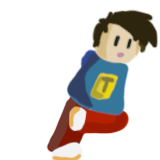
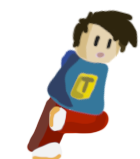
Animation joueur

Changed region(s): [[0.1714, 0.0503, 1.0, 1.0], [0.7714, 0.0503, 0.8, 0.0755]]

diff --git a/View/drawMap.py b/View/drawMap.py
@@ -7,12 +7,18 @@ AUBERGINE = pygame.image.load('View/Data/Monster/aubergine.png')
 MAISGUNNER = pygame.image.load('View/Data/Monster/Maïs.png')
 TOMATE = pygame.image.load('View/Data/Monster/Tomate.png')
 
-
 RESSORT_NORMAL = pygame.image.load('View/Data/Map/Ressort1.png')
 RESSORT_LOAD = pygame.image.load('View/Data/Map/Ressort2.png')
 RESSORT_UNLOAD = pygame.image.load('View/Data/Map/Ressort3.png')
 
 RESSORT_TRIGGER = False
+
+PLAYER_RIGHT = [pygame.transform.scale(pygame.image.load('View/Data/Player/Body/1.png'), (70, 80)),pygame.transform.scale(pygame.image.load('View/Data/Player/Body/2.png'), (70, 80)),pygame.transform.scale(pygame.image.load('View/Data/Player/Body/3.png'), (70, 80)), pygame.transform.scale(pygame.image.load('View/Data/Player/Body/4.png'), (70, 80)),pygame.transform.scale(pygame.image.load('View/Data/Player/Body/5.png'), (70, 80)),pygame.transform.scale(pygame.image.load('View/Data/Player/Body/6.png'), (70, 80)), pygame.transform.scale(pygame.image.load('View/Data/Player/Body/7.png'), (70, 80)),pygame.transform.scale(pygame.image.load('View/Data/Player/Body/8.png'), (70, 80)), pygame.transform.scale(pygame.image.load('View/Data/Player/Body/9.png'), (70, 80)),pygame.transform.scale(pygame.image.load('View/Data/Player/Body/10.png'), (70, 80))]
+PLAYER_LEFT = [pygame.transform.scale(pygame.transform.flip(pygame.image.load('View/Data/Player/Body/1.png'), True, False), (70, 80)), pygame.transform.scale(pygame.transform.flip(pygame.image.load('View/Data/Player/Body/2.png'), True, False), (70, 80)), pygame.transform.scale(pygame.transform.flip(pygame.image.load('View/Data/Player/Body/3.png'), True, False), (70, 80)), pygame.transform.scale(pygame.transform.flip(pygame.image.load('View/Data/Player/Body/4.png'), True, False), (70, 80)), pygame.transform.scale(pygame.transform.flip(pygame.image.load('View/Data/Player/Body/5.png'), True, False), (70, 80)), pygame.transform.scale(pygame.transform.flip(pygame.image.load('View/Data/Player/Body/6.png'), True, False), (70, 80)), pygame.transform.scale(pygame.transform.flip(pygame.image.load('View/Data/Player/Body/7.png'), True, False), (70, 80)), pygame.transform.scale(pygame.transform.flip(pygame.image.load('View/Data/Player/Body/8.png'), True, False), (70, 80)), pygame.transform.scale(pygame.transform.flip(pygame.image.load('View/Data/Player/Body/9.png'), True, False), (70, 80)), pygame.transform.scale(pygame.transform.flip(pygame.image.load('View/Data/Player/Body/10.png'), True, False), (70, 80))]
+PLAYER = [pygame.transform.scale(pygame.transform.flip(pygame.image.load('View/Data/Player/Body/0.png'), True, False), (70, 80)), pygame.transform.scale(pygame.image.load('View/Data/Player/Body/0.png'),(70,80))]
+
+walkcount = 0
+currFrame = 0
 
 def drawMap(window,x,y,width):
     pygame.draw.rect(window, (255, 0, 0), pygame.Rect(x, y, width, 20))
@@ -118,6 +124,19 @@ def drawMonster(window,monster,ratio):
         pygame.draw.rect(window, (200, 0, 0), pygame.Rect(posX - decalage, posY - decalage, decalage, pxVieEnleve))
 
 def drawPlayer(window,player,ratio):
+    global walkcount
+    global currFrame
+
+    if player.left or player.right:
+        if walkcount == 20:
+            walkcount = 0
+            currFrame += 1
+            if currFrame >= 9:
+                currFrame = 0
+        walkcount += 1
+    else :
+        walkcount = 0
+        currFrame = 0
 
     posX = player.pos[0]
     posY = player.pos[1]
@@ -126,7 +145,44 @@ def drawPlayer(window,player,ratio):
         posX += player.speed[0] * ratio
         posY += player.speed[1] * ratio
 
-    pygame.draw.rect(window, (0, 150, 0), pygame.Rect(posX, posY, player.size[0], player.size[1]))
+    if player.wall == 2:
+        if not player.left and not player.right:
+            window.blit(pygame.transform.rotate((PLAYER[0] if player.shotDir == 0 else PLAYER[1]), -90), (posX, posY))
+        elif player.left:
+            window.blit(pygame.transform.rotate((PLAYER_LEFT[currFrame]), -90), (posX, posY))
+        elif player.right:
+            window.blit(pygame.transform.rotate((PLAYER_RIGHT[currFrame]), -90), (posX, posY))
+        else:
+            window.blit(pygame.transform.rotate((PLAYER[0] if player.shotDir == 1 else PLAYER[1]), -90), (posX, posY))
+
+    elif player.wall == 3:
+        if not player.left and not player.right:
+            window.blit(pygame.transform.rotate((PLAYER[0] if player.shotDir == 0 else PLAYER[1]), 180), (posX, posY))
+        elif player.left:
+            window.blit(pygame.transform.rotate((PLAYER_RIGHT[currFrame]), 180), (posX, posY))
+        elif player.right:
+            window.blit(pygame.transform.rotate((PLAYER_LEFT[currFrame]), 180), (posX, posY))
+        else:
+            window.blit(pygame.transform.rotate((PLAYER[0] if player.shotDir == 1 else PLAYER[1]), 180), (posX, posY))
+
+    elif player.wall == 4:
+        if not player.left and not player.right:
+            window.blit(pygame.transform.rotate((PLAYER[0] if player.shotDir == 0 else PLAYER[1]), 90), (posX, posY))
+        elif player.left:
+            window.blit(pygame.transform.rotate((PLAYER_LEFT[currFrame]), 90), (posX, posY))
+        elif player.right:
+            window.blit(pygame.transform.rotate((PLAYER_RIGHT[currFrame]), 90), (posX, posY))
+        else:
+            window.blit(pygame.transform.rotate((PLAYER[0] if player.shotDir == 1 else PLAYER[1]), 90), (posX, posY))
+    else:
+        if not player.left and not player.right:
+            window.blit((PLAYER[0] if player.shotDir == 0 else PLAYER[1]), (posX, posY))
+        elif player.left:
+            window.blit((PLAYER_LEFT[currFrame]), (posX, posY))
+        elif player.right:
+            window.blit((PLAYER_RIGHT[currFrame]), (posX, posY))
+        else:
+            window.blit((PLAYER[0] if player.shotDir == 1 else PLAYER[1]), (posX, posY))
 
     for shot in player.shots:
         shotX = int(shot.pos[0] + (shot.speed[0]*ratio))
@@ -138,7 +194,6 @@ def drawPlayer(window,player,ratio):
 
     centerX = player.pos[0] + (player.size[0]/2)
     centerY = player.pos[1] + (player.size[1]/2)
-
 
 
     if player.shotDir == 1:

diff --git a/Model/Mob.py b/Model/Mob.py
@@ -299,6 +299,10 @@ class Player(Mob):
         self.gunPicRight = pygame.transform.flip(self.gunPicLeft, True, False)
         self.shotDir = 1
 
+        self.left = True
+        self.right = False
+        self.airTime = True
+
     def shoot(self, posShoot):
         if time.time() - self.precShoot > 0.2:
             self.precShoot = time.time()
@@ -390,16 +394,20 @@ class Player(Mob):
         if self.pos[0] + self.size[0] > MAXPOSXWALL:
             self.pos[0] = MAXPOSXWALL - self.size[0]
             self.push = [0, 0]
+            self.airTime = False
         elif self.pos[0] < MINPOSXWALL:
             self.pos[0] = MINPOSXWALL
             self.push = [0, 0]
+            self.airTime = False
 
         if self.pos[1] + self.size[1] > MAXPOSYWALL:
             self.pos[1] = MAXPOSYWALL - self.size[1]
             self.push = [0, 0]
+            self.airTime = False
         elif self.pos[1] < MINPOSYWALL:
             self.pos[1] = MINPOSYWALL
             self.push = [0, 0]
+            self.airTime = False
 
         newShots = []
         for shot in self.shots:
@@ -408,10 +416,16 @@ class Player(Mob):
                 newShots.append(shot)
         self.shots = newShots
 
-        if pygame.mouse.get_pos()[0] > (self.pos[0] + (self.size[0] / 2)):
-            self.shotDir = 1
+        if self.wall == 1 or self.wall == 3:
+            if pygame.mouse.get_pos()[0] > (self.pos[0] + (self.size[0] / 2)):
+                self.shotDir = 1
+            else:
+                self.shotDir = 0
         else:
-            self.shotDir = 0
+            if pygame.mouse.get_pos()[1] > (self.pos[1] + (self.size[1] / 2)):
+                self.shotDir = 0
+            else:
+                self.shotDir = 1
 
         # Si le joueur a touché un ressort
         gravite = 5
@@ -423,12 +437,14 @@ class Player(Mob):
                 self.push = [pushForce, -pushForce]
                 self.size = [self.size[1], self.size[0]]
                 self.wall = 4
+                self.airTime = True
                 return 2
             elif self.pos[0] + self.size[0] >= MAXPOSXWALL - 35 and self.pos[1] + self.size[1] >= MAXPOSYWALL - 35: # ressort bas/droite
                 self.gravityShift([-gravite, 0])
                 self.push = [-pushForce, -pushForce]
                 self.size = [self.size[1], self.size[0]]
                 self.wall = 2
+                self.airTime = True
                 return 3
         elif self.wall == 2: # mur de gauche
             if self.pos[0] <= MINPOSXWALL + 35 and self.pos[1] <= MINPOSYWALL + 35:  # ressort haut/gauche
@@ -436,11 +452,13 @@ class Player(Mob):
                 self.push = [pushForce, pushForce]
                 self.size = [self.size[1], self.size[0]]
                 self.wall = 1
+                self.airTime = True
                 return 1
             elif self.pos[0] <= MINPOSXWALL + 35 and self.pos[1] >= MAXPOSYWALL - 35 - self.size[1]:  # ressort bas/gauche
                 self.gravityShift([0, -gravite])
                 self.push = [pushForce, -pushForce]
                 self.wall = 3
+                self.airTime = True
                 return 2
         elif self.wall == 3: # mur du haut
             if self.pos[0] >= MAXPOSXWALL - 35 - self.size[0] and self.pos[1] >= MINPOSYWALL - 35:  # ressort haut/droite
@@ -448,12 +466,14 @@ class Player(Mob):
                 self.push = [-pushForce, pushForce]
                 self.size = [self.size[1], self.size[0]]
                 self.wall = 2
+                self.airTime = True
                 return 4
             elif self.pos[0] <= MINPOSXWALL + 35 and self.pos[1] <= MINPOSYWALL + 35: # ressort haut/gauche
                 self.gravityShift([gravite, 0])
                 self.push = [pushForce, pushForce]
                 self.size = [self.size[1], self.size[0]]
                 self.wall = 4
+                self.airTime = True
                 return 1
         else: # self.wall == 4; mur de droite
             if self.pos[0] + self.size[0] >= MAXPOSXWALL and self.pos[1] >= MAXPOSYWALL - 35 - self.size[1]:  # ressort bas/droite
@@ -461,12 +481,14 @@ class Player(Mob):
                 self.push = [-pushForce, -pushForce]
                 self.size = [self.size[1], self.size[0]]
                 self.wall = 3
+                self.airTime = True
                 return 3
             elif self.pos[0] >= MAXPOSXWALL - self.size[0] and self.pos[1] <= MINPOSYWALL + 35:  # ressort haut/droite
                 self.gravityShift([0, gravite])
                 self.push = [-pushForce, pushForce]
                 self.size = [self.size[1], self.size[0]]
                 self.wall = 1
+                self.airTime = True
                 return 4
         return 0
 

diff --git a/View/game.py b/View/game.py
@@ -71,7 +71,7 @@ def mapGame(window, map):
         pygame.display.update()
 
 
-    player = Player([500, 350], 100, [40, 60], 50)
+    player = Player([500, 350], 100, [70, 80], 50)
 
     runMap = True
     #currentMap = Map(idMap, 10) #What IS dislock ?
@@ -101,31 +101,45 @@ def mapGame(window, map):
         if keys[pygame.K_z] or keys[pygame.K_w]:
             player.move([0, -1])
             player.movement(True)
-
-        if keys[pygame.K_q] or keys[pygame.K_a]:
-            player.move([-1, 0])
-            player.movement(True)
+            player.left = False
+            player.right = False
 
         if keys[pygame.K_d]:
             player.move([1, 0])
             player.movement(True)
+            if not player.airTime:
+                player.left = False
+                player.right = True
+        elif keys[pygame.K_q] or keys[pygame.K_a]:
+            player.move([-1, 0])
+            player.movement(True)
+            if not player.airTime:
+                player.left = True
+                player.right = False
+        else:
+            player.movement(False)
+            player.left = False
+            player.right = False
 
         if keys[pygame.K_s]:
             player.move([0, 1])
             player.movement(True)
+            player.left = False
+            player.right = False
 
         if keys[pygame.K_SPACE]:
             currentT = time.time()
             if currentT - gravTime >= 0.5:
                 gravTime = currentT
                 player.gravityShift([-player.gravitation[0], -player.gravitation[1]])
+                player.right = False
+                player.left = False
+                player.airTime = True
 
         mouseBoutton = pygame.mouse.get_pressed()
         if mouseBoutton[0]:
             player.shoot(pygame.mouse.get_pos())
 
-        # updateAll()
-        
         while lag >= MS_PER_UPDATE:
             actRessort = updateAll()
             if actRessort != 0:
